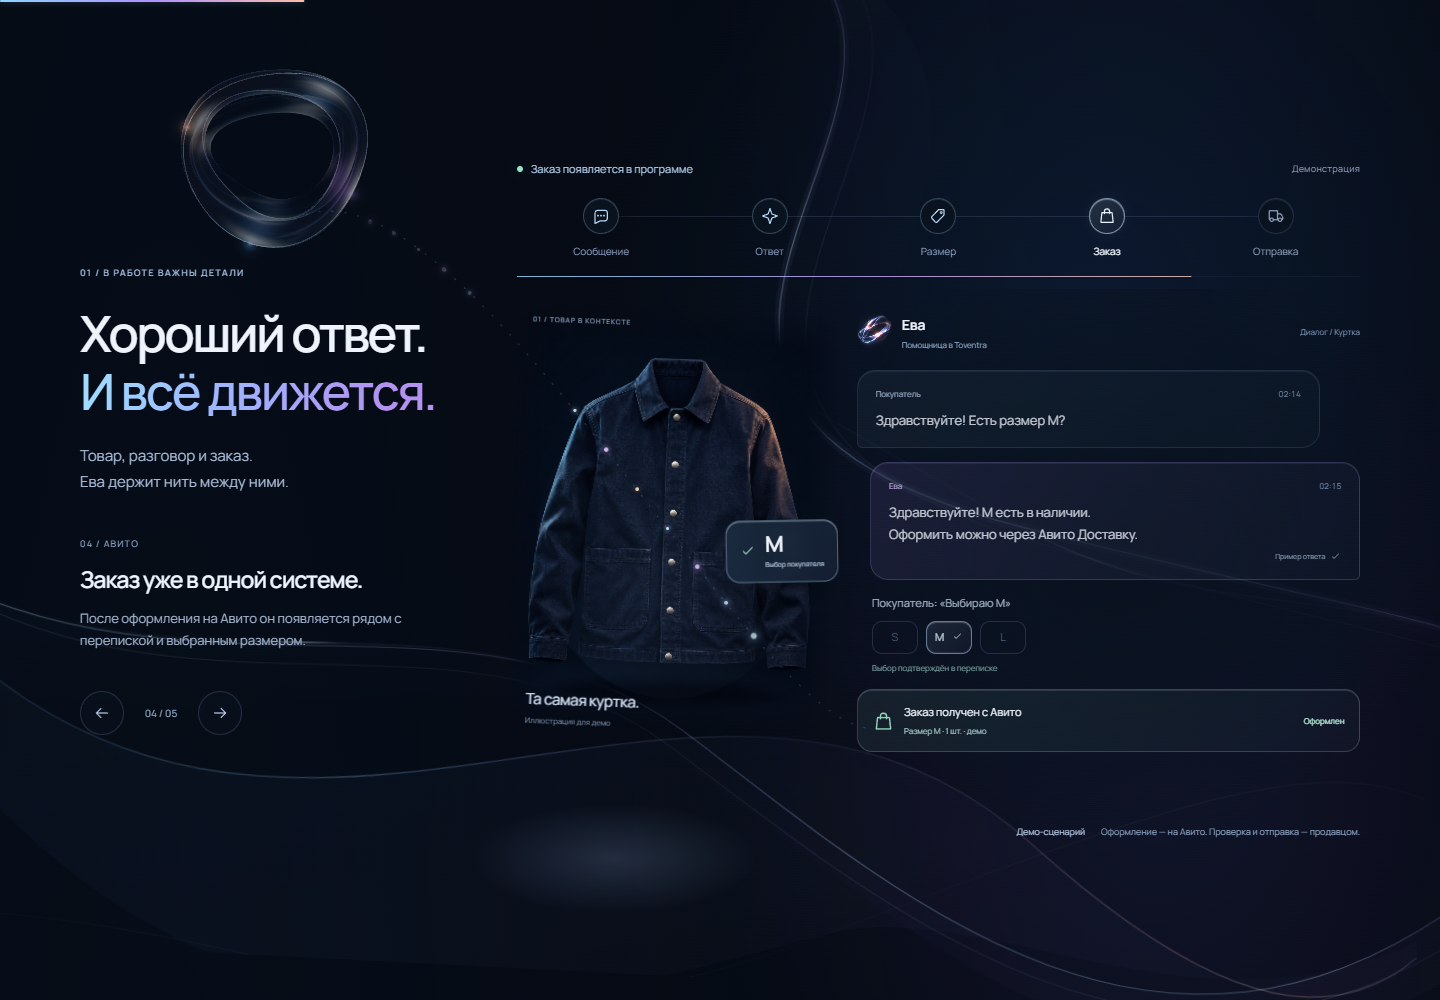
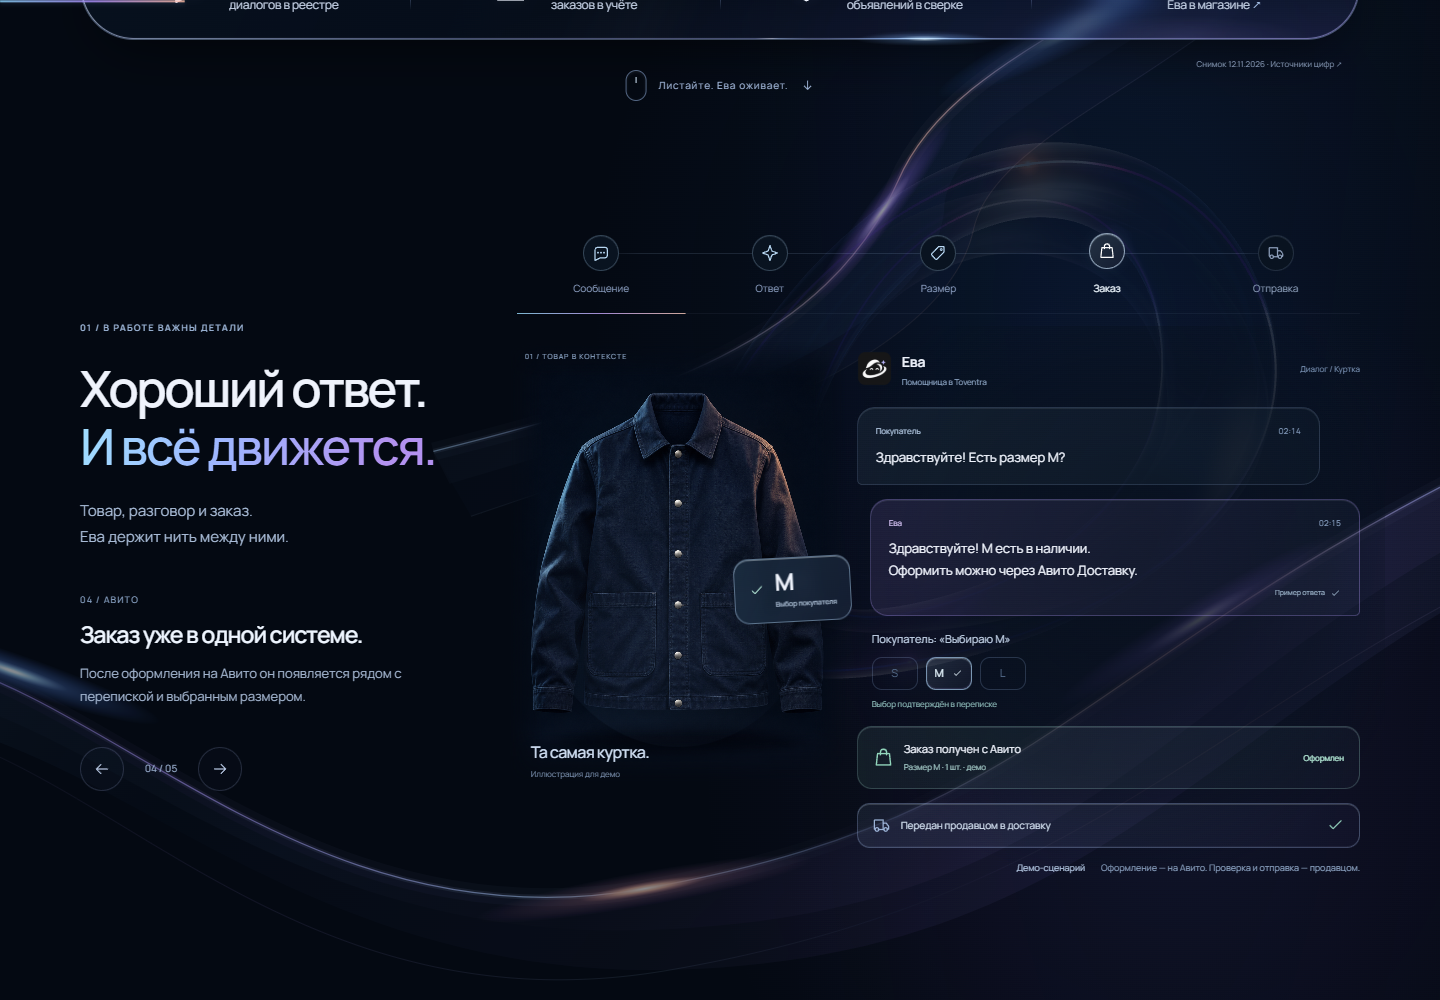
docs: use owner-approved Eva mascot for Toventra

diff --git a/assets/screenshots/README.md b/assets/screenshots/README.md
@@ -5,7 +5,7 @@
 | `stock-overview-archive.png` | Верхний фрагмент настоящего раздела сверки, архив 04.10.2026 | Нижняя область с внутренними кодами не включена. Числа исторические, не свежие метрики |
 | `conversation-demo.png` | Учебная HTML-сцена отдельного сайта Toventra | Полностью вымышленные данные и сгенерированное изображение куртки. Не снимок production, не реальный товар и не покупательская переписка |
 | `../eva-logo.png` | Локальное представление знака из визуального референса владельца | Только бренд; нет интерфейса, ссылок или клиентских данных |
-| `../toventra-logo.png` | Актуальный знак и надпись Toventra из независимого frontend | Только бренд программы; имя Евы сохранено за помощницей |
+| `../toventra-symbol.png` | Присланный владельцем знак: улыбающаяся Ева с орбитой и сиреневой искрой | Исходные пропорции и пиксели сохранены; удалены только служебные PNG-метаданные. Бренд программы — Toventra |
 
 Полные исходные изображения, рабочие URL, путь установки, клиентские записи и метаданные доступа не включены. Производственный интерфейс не открывался для создания этих файлов: использован ранее сохранённый архив и независимый учебный frontend.
 

diff --git a/changelog.md b/changelog.md
@@ -14,6 +14,7 @@
 | 07–08.11.2026 | Уточнён учёт незакрытых вопросов и разделение быстрой сверки / фоновой истории | Старый флаг не считается решением, а новый вопрос не ждёт полного исторического обхода |
 | 12.11.2026 | Подготовлена отдельная публичная документация | Возможности, ограничения и агрегаты доступны без исходников и приватных данных |
 | 12.11.2026 | Уточнён бренд: Toventra — программа, Ева — помощница внутри | Обновлены главный логотип, README и учебная сцена; факты и методика метрик сохранены |
+| 12.11.2026 | Установлен присланный владельцем знак с улыбкой и орбитой | В README сохранены исходные пропорции знака; служебные метаданные изображения исключены |
 
 ## Как читать старые описания
 

diff --git a/README.md b/README.md
@@ -1,5 +1,5 @@
 <p align="center">
-  <img src="assets/toventra-logo.png" alt="Toventra" width="320">
+  <img src="assets/toventra-symbol.png" alt="Toventra" width="112" height="112">
 </p>
 
 <h1 align="center">Toventra — больше внимания покупателям.<br>Меньше рутины продавцу.</h1>
